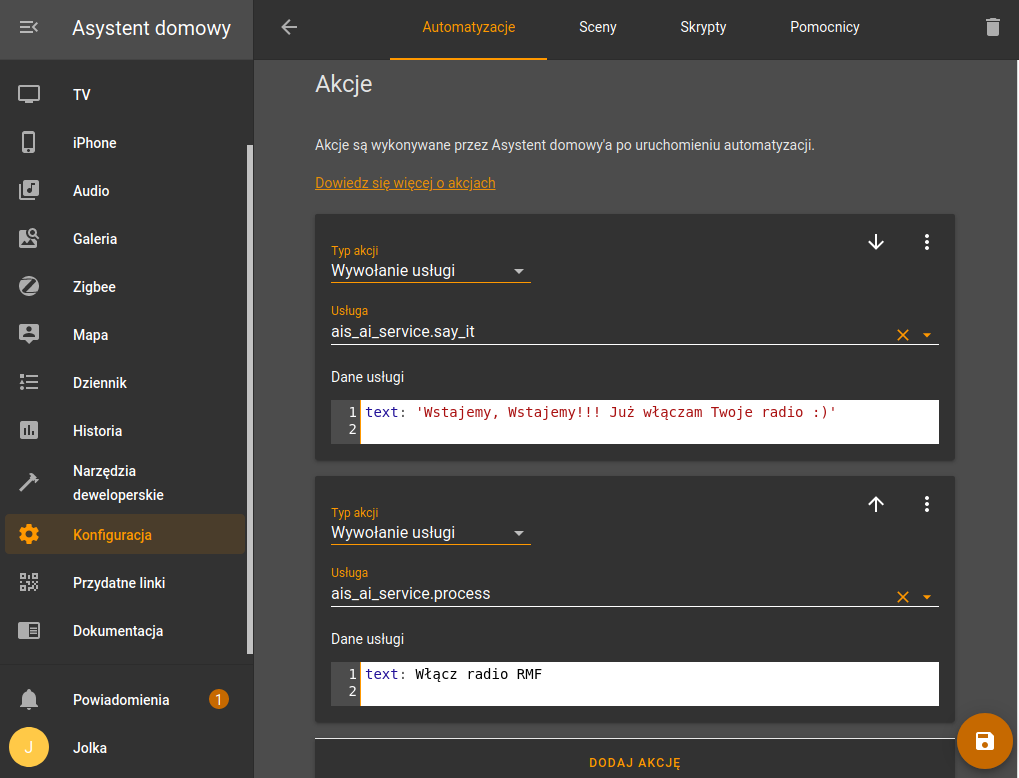
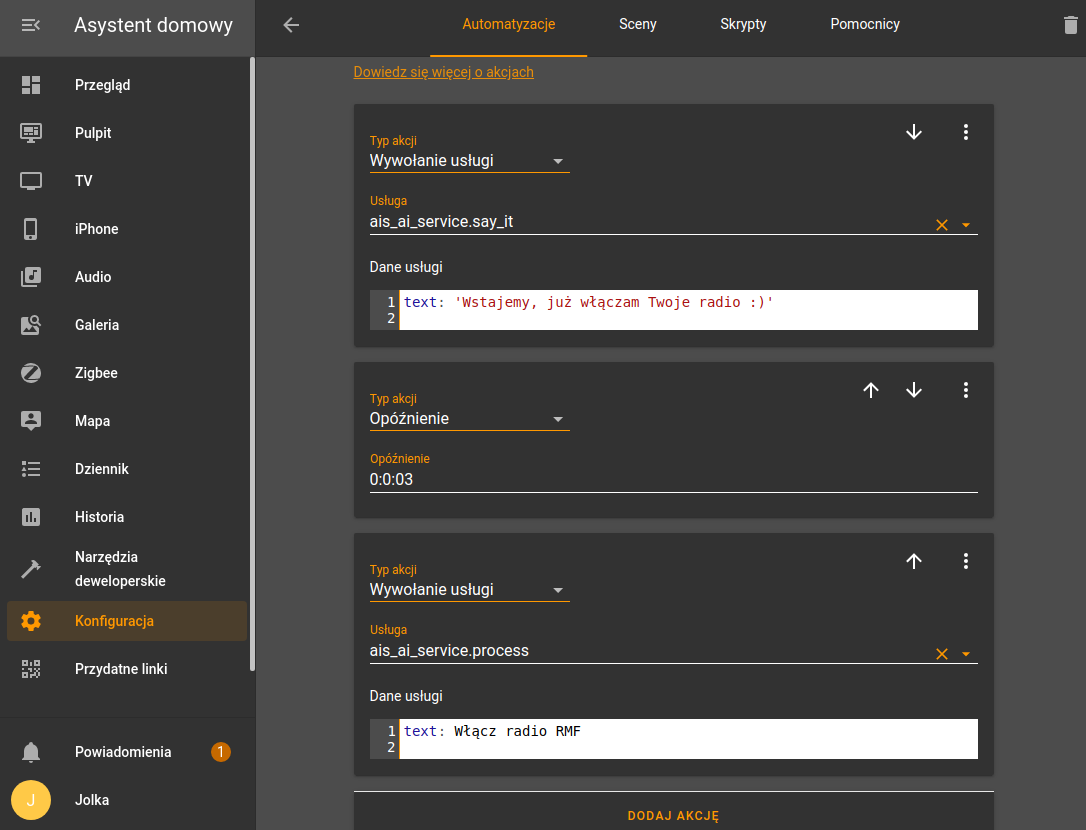
fix in helpers description

diff --git a/docs/ais_bramka_automation_helpers.md b/docs/ais_bramka_automation_helpers.md
@@ -74,7 +74,7 @@ Jako wyzwalacz możemy zastosować szablon - sprawdzimy w nim, czy aktualny czas
 
 ![Pomocnik szablon](/img/en/bramka/automation_helpers8.png)
 
-#### Kod szablonu:
+#### Cały kod szablonu:
 
 ``` javascript
 {{ states('sensor.time') ==
@@ -86,16 +86,46 @@ Jako wyzwalacz możemy zastosować szablon - sprawdzimy w nim, czy aktualny czas
 Kody szablonów możesz sprawdzać w "Narzędzia developerskie" -> "SZABLON"
 :::
 
+Przejdz do sprawdzenia szablonu i w pole edytora szablonów wklej taki kod:
+
+``` javascript
+{{ states('sensor.time') }}
+```
+
+żeby zobaczyć stan sensora czasu w systemie.
+
 ![Pomocnik szablon](/img/en/bramka/automation_helpers9.png)
+
+``sensor.time`` to wbudowany element systemu Asystent domowy - godzina prezentowana w aplikacji.
+
+![Pomocnik szablon](/img/en/bramka/automation_helpers101.png)
+
+Następnie by zobaczyć, odpowiednio sformatowany, aktualny status elementu budzik, wklej taki kod:
+
+``` javascript
+{{ (state_attr('input_datetime.budzik', 'timestamp') | int | timestamp_custom('%H:%M', True)) }}
+```
 
 ![Pomocnik szablon](/img/en/bramka/automation_helpers10.png)
 
+Cały kod sprawdzający, czy aktualna godzina i minuta jest równa nastawionej godzinie i minucie na budziku:
+
+``` javascript
+{{ states('sensor.time') ==
+(state_attr('input_datetime.budzik', 'timestamp') | int
+| timestamp_custom('%H:%M', True)) }}
+```
+
 ![Pomocnik szablon](/img/en/bramka/automation_helpers11.png)
 
-#### Wykonanie akcji
+Gdy warunek będzie spełniony, czyli wartość sensor.time == wartości naszego elementu input_datetime.budzik automatyzacja zostanie uruchomiona.
 
-Akcja automatyzacji może być tekstem, którym Jolka nas obudzi, dodatkowo możemy włączyć radio lub dowolną inną muzykę z dysku czy serwisu zdalnego.
+
+#### Wykonanie akcji automatyzacji
+
+Akcja automatyzacji może być tekstem, który Jolka przeczyta, żeby nas obudzić, dodatkowo możemy włączyć radio lub dowolną inną muzykę z dysku czy serwisu zdalnego.
 
 ![Pomocnik szablon](/img/en/bramka/automation_helpers12.png)
 
-Oczywiście w razie potrzeby możemy też zaświecić światło, stopniowo zwiększać głośność audio itp.
+Akcja opóźnienie pomiędzy akcją powiedzenia tekstu przez Jolkę a akcją włączenia radia, jest po to, żebyśmy zdążyli usłyszeć tekst pobudki, zanim zacznie grać radio.
+Oczywiście to tylko przykład, w razie potrzeby możemy też zaświecić światło, stopniowo zwiększać głośność audio itp.
